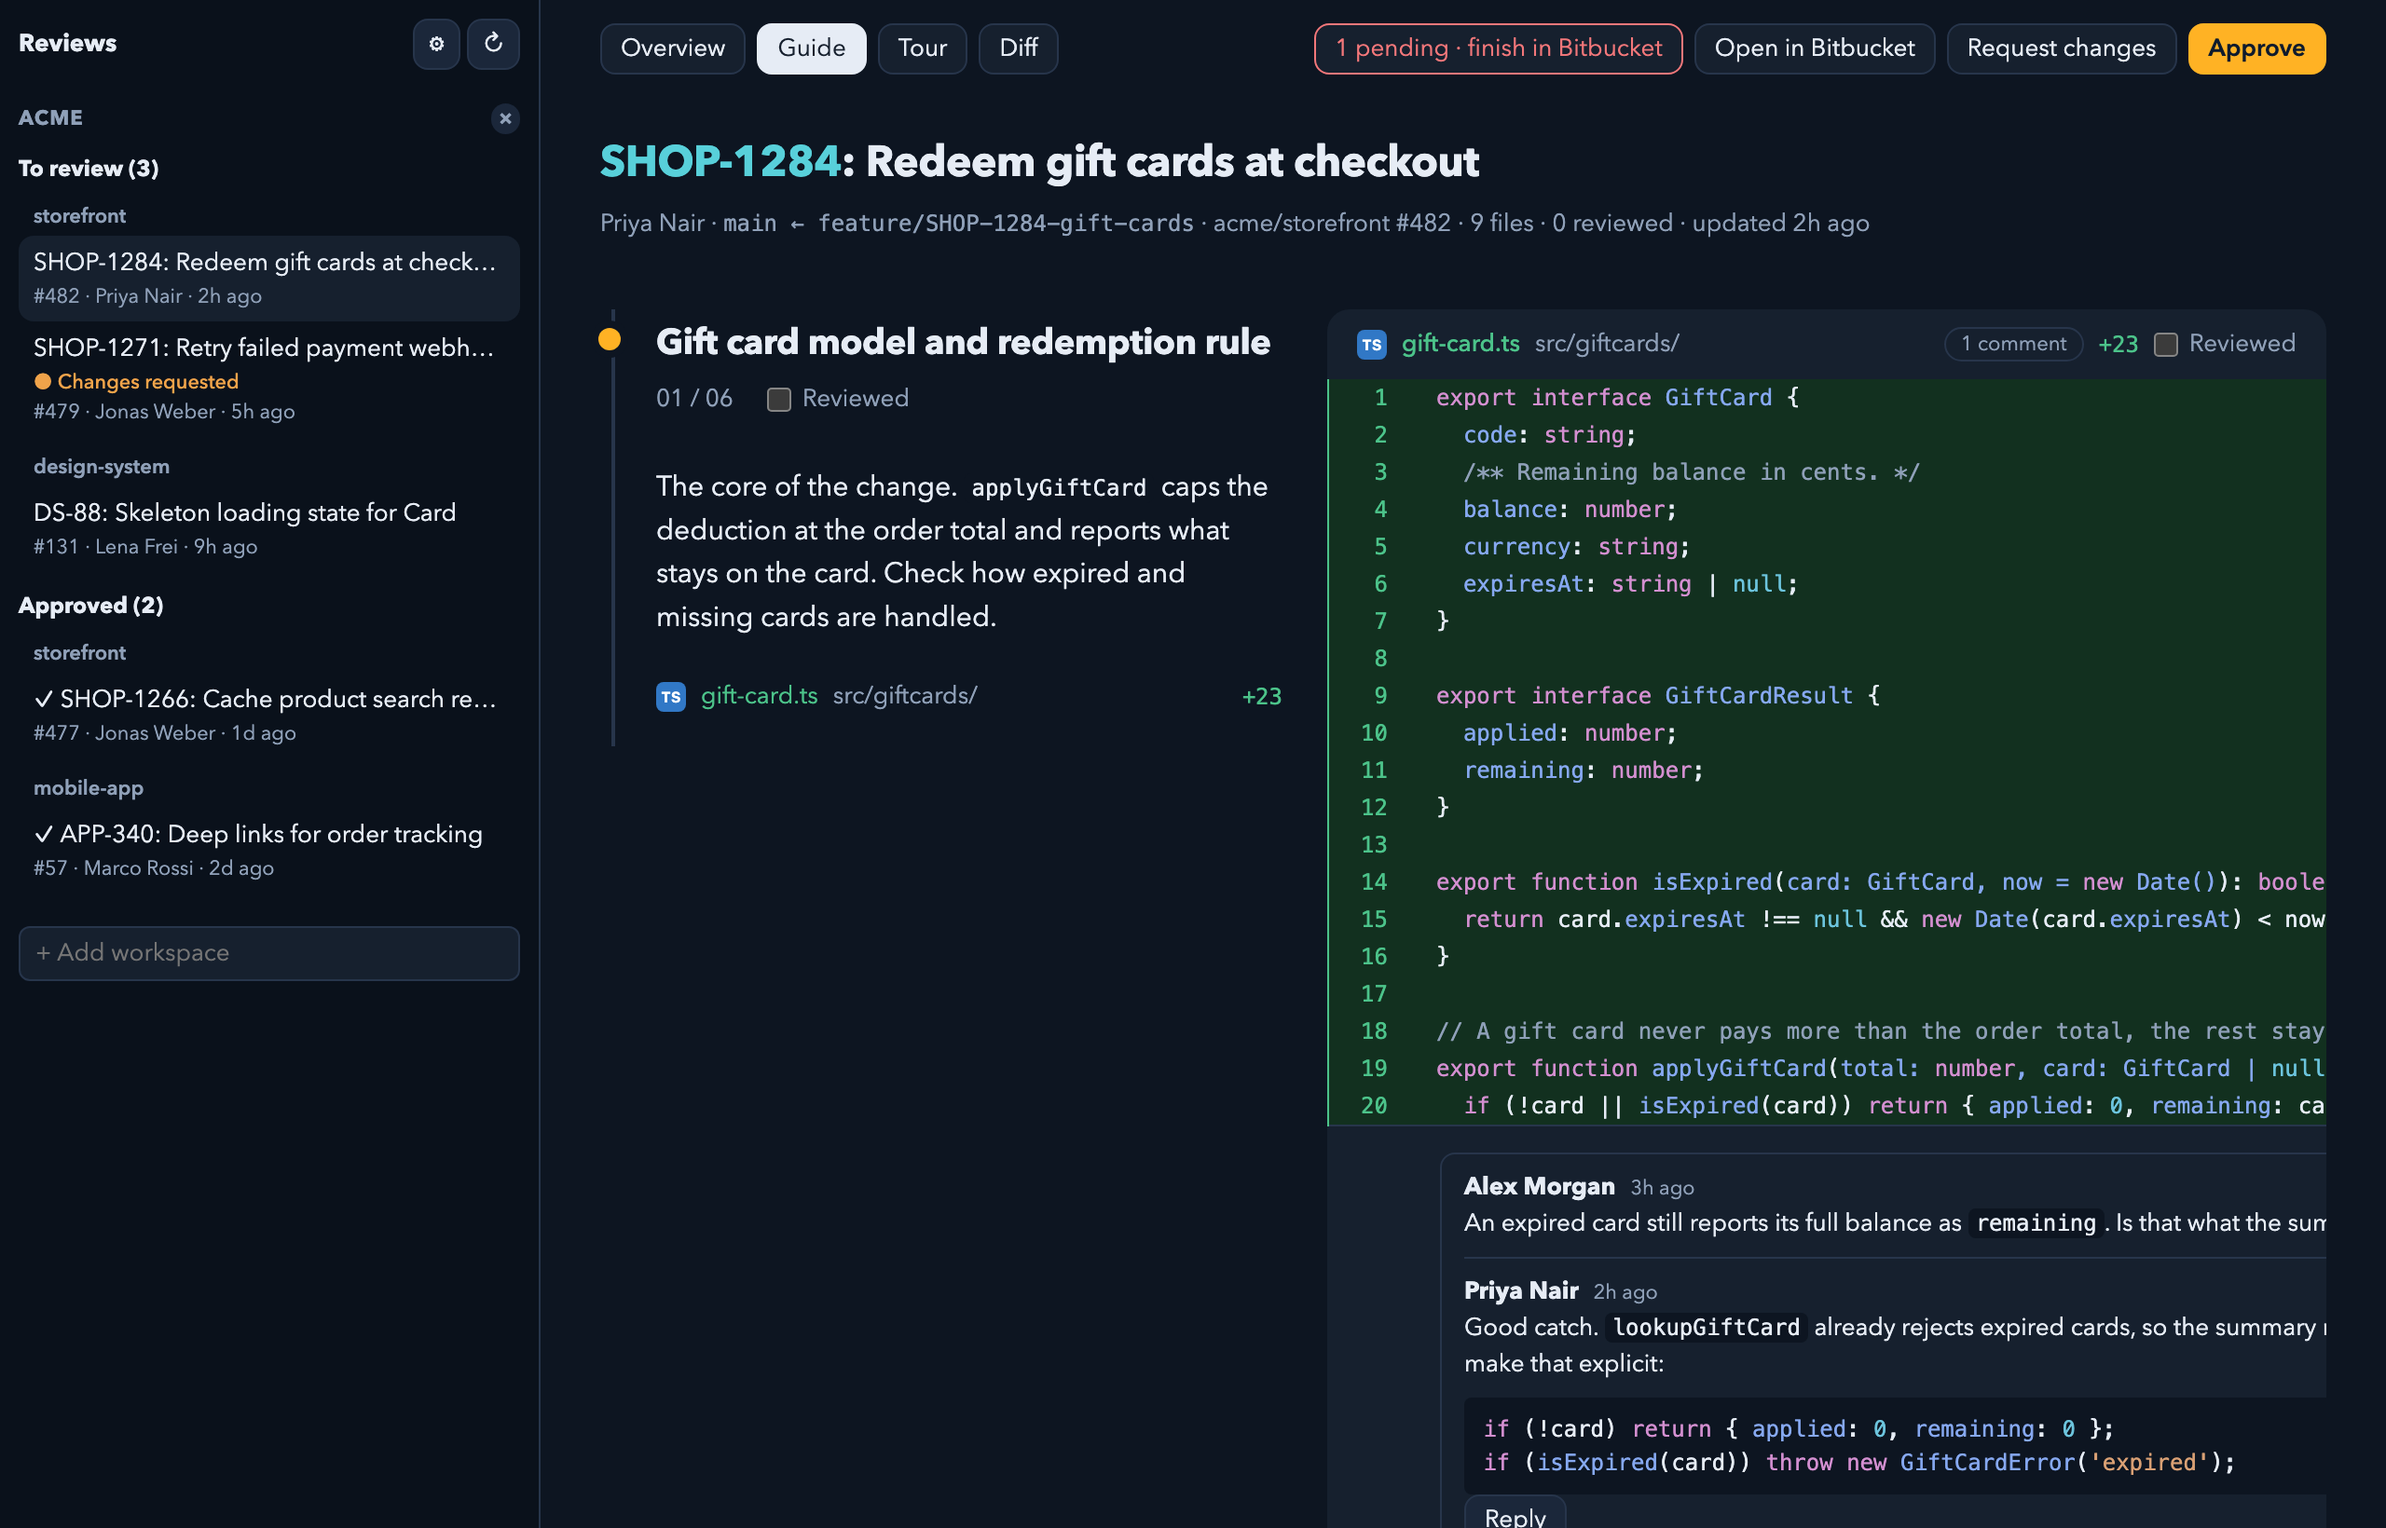
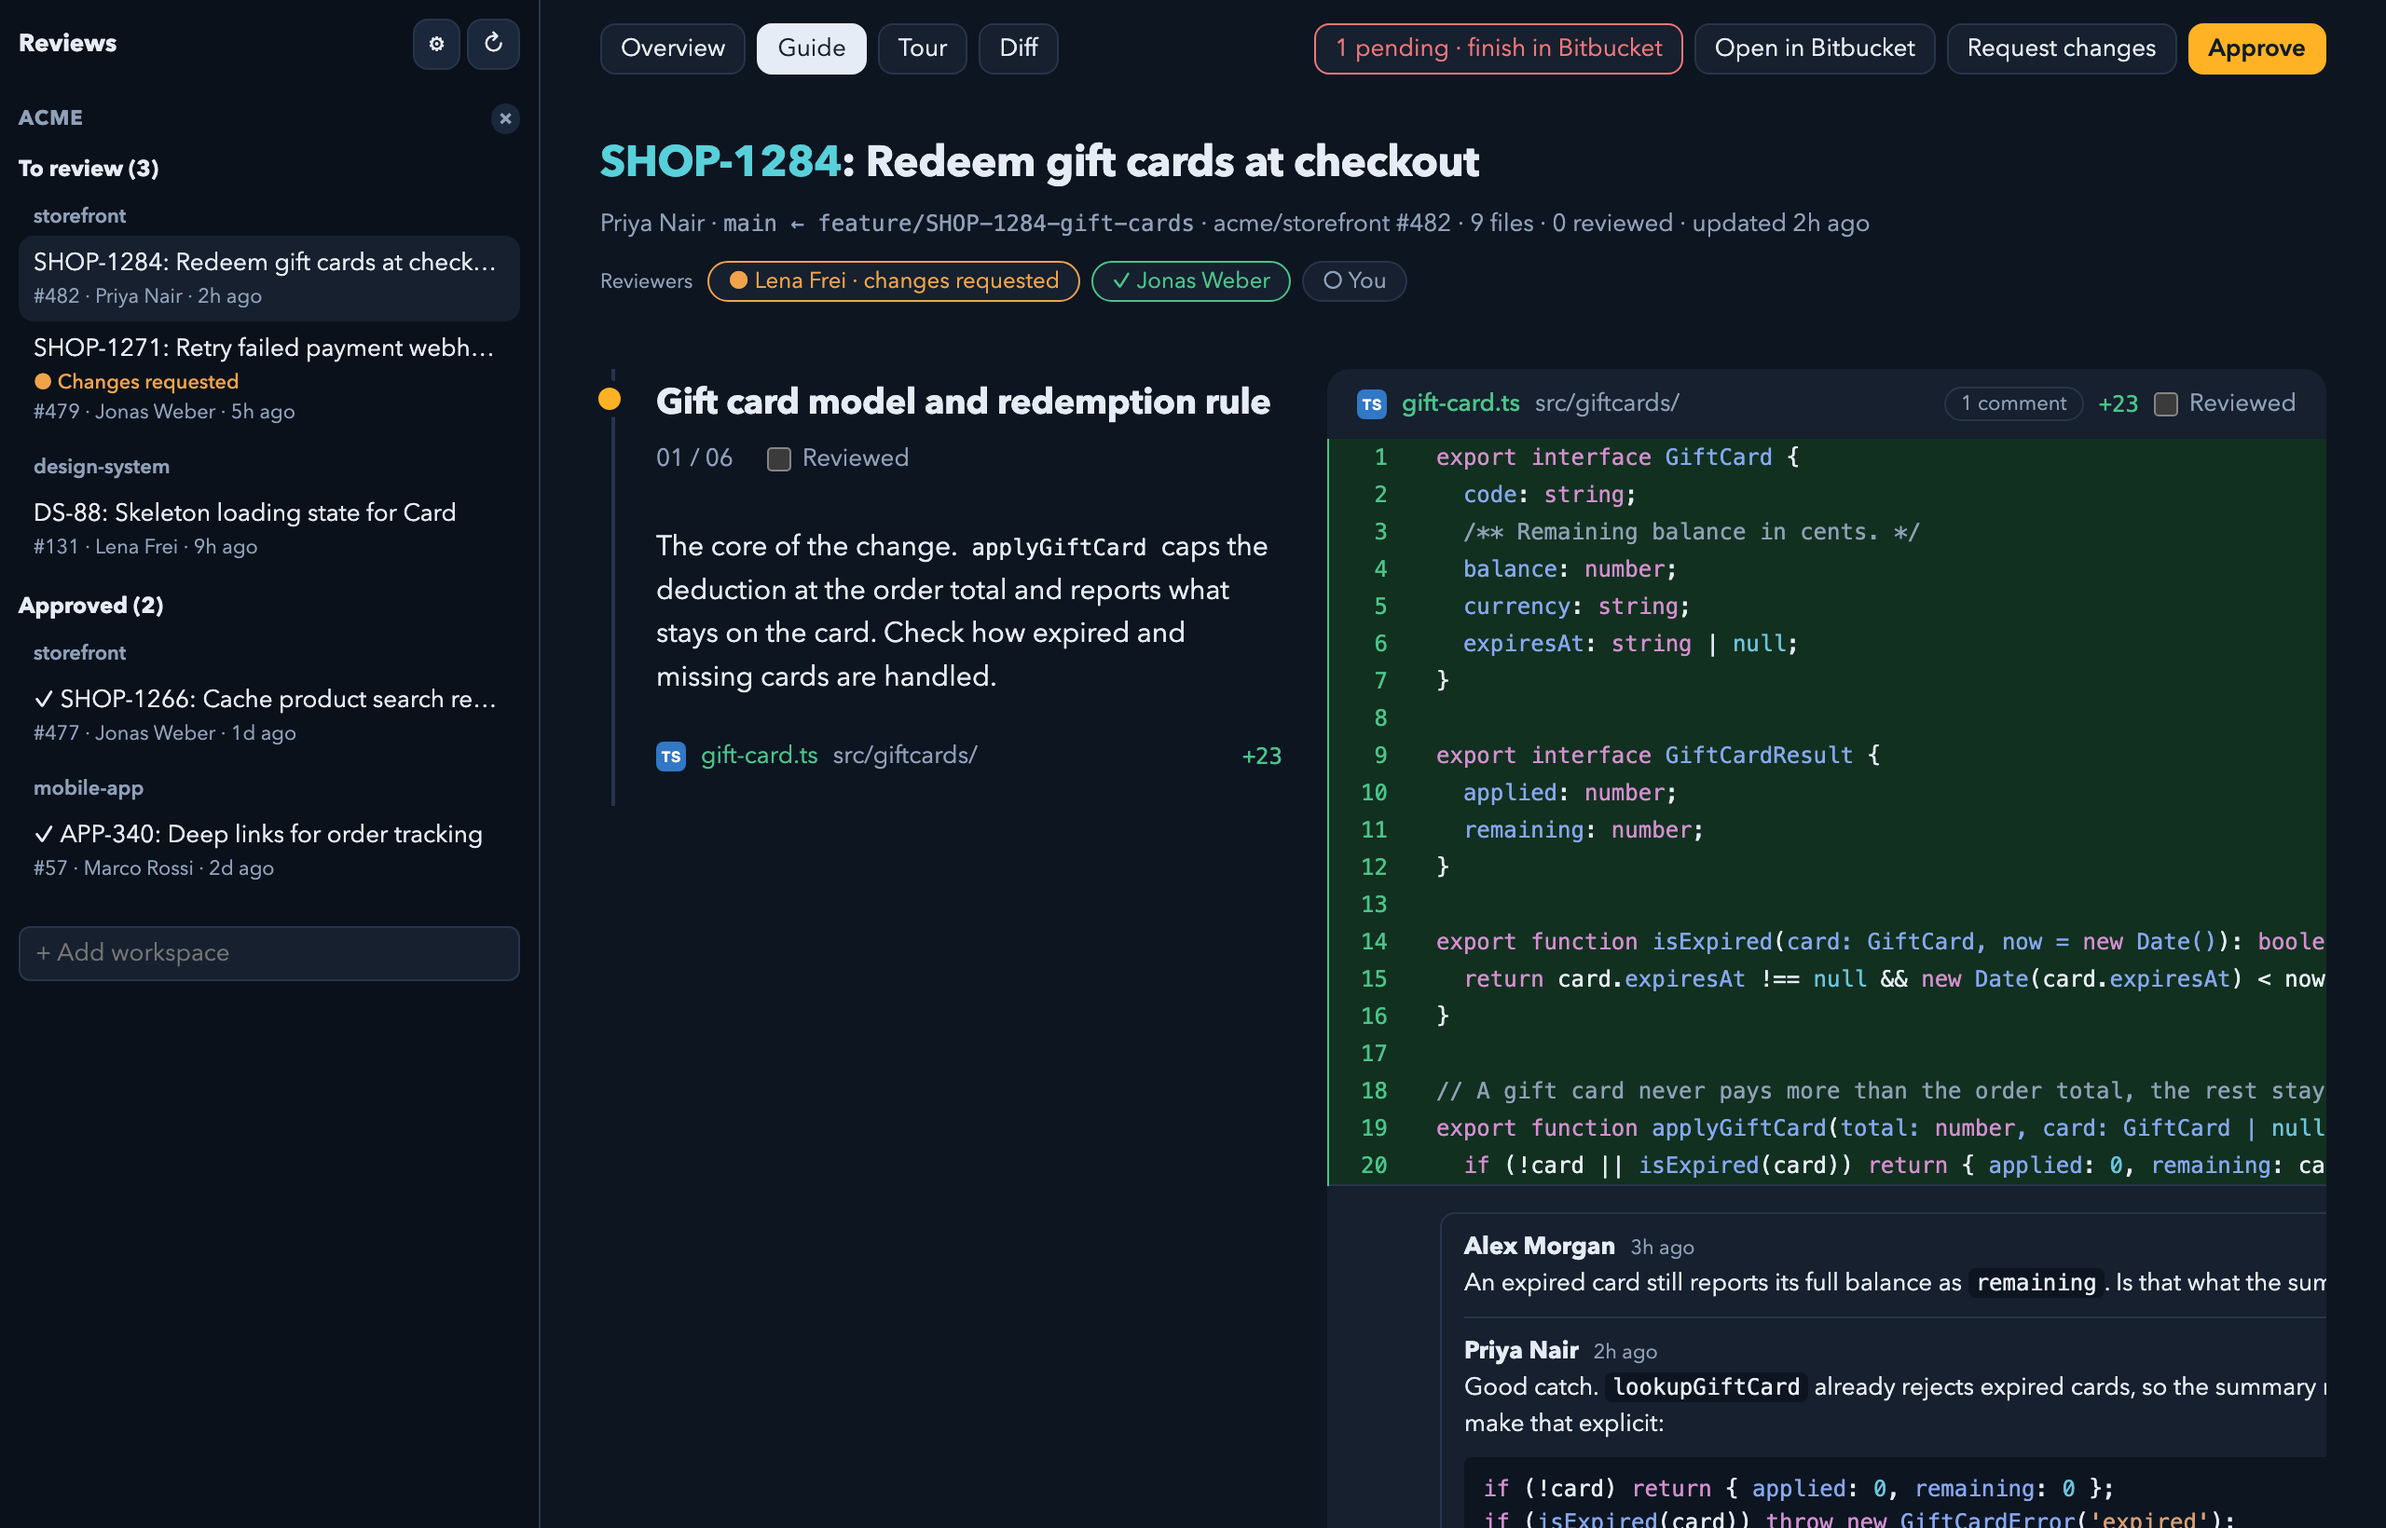
Show reviewers and their approval state

diff --git a/ui/app.js b/ui/app.js
@@ -405,6 +405,21 @@ function threadEl(root, comments, post, lang) {
   return h('div', { className: 'thread' + (root.resolution ? ' resolved' : '') }, all.map(item), slot);
 }
 
+// Who reviews this PR and where each stands: reviewers, plus anyone else who approved or asked for changes.
+function reviewersEl(pr) {
+  const order = { changes_requested: 0, approved: 1 };
+  const people = (pr.participants ?? [])
+    .filter((p) => (p.role === 'REVIEWER' || p.state) && p.user?.uuid !== pr.author?.uuid)
+    .sort((a, b) => (order[a.state] ?? 2) - (order[b.state] ?? 2));
+  if (!people.length) return null;
+  const chip = (p) => {
+    const [mark, label, cls] = p.state === 'approved' ? ['✓', 'approved', ' plus'] : p.state === 'changes_requested' ? ['●', 'changes requested', ' pending'] : ['○', 'has not reviewed yet', ''];
+    const name = p.user?.uuid === myUuid() ? 'You' : (p.user?.display_name ?? '?');
+    return h('span', { className: 'tag' + cls, title: `${name}: ${label}`, textContent: `${mark} ${name}${p.state === 'changes_requested' ? ' · changes requested' : ''}` });
+  };
+  return h('p', { className: 'reviewers' }, h('small', { textContent: 'Reviewers' }), people.map(chip));
+}
+
 // Small centred line under a guide or tour: which agent and model wrote it, and what that request used.
 // The numbers are from when it was written. Showing it again from the cache costs nothing.
 function aiFooter(meta) {
@@ -760,6 +775,7 @@ function draw(repo, id, data, guide) {
     ),
     h('h1', {}, title),
     h('p', { className: 'meta' }, h('span', { textContent: `${pr.author?.display_name ?? '?'} · ` }), h('code', { textContent: `${pr.destination.branch.name} ← ${pr.source.branch.name}` }), h('span', { textContent: ` · ${repo} #${id} · ${files.length} files · ${reviewed.size} reviewed · updated ${ago(pr.updated_on)}` })),
+    reviewersEl(pr),
     views[tab](),
   );
   main.scrollTop = 0;

diff --git a/ui/style.css b/ui/style.css
@@ -248,3 +248,9 @@ dialog.settings select { padding: 6px 8px; border: 1px solid var(--line); border
 .text table { border-collapse: collapse; white-space: normal; }
 .text th, .text td { border: 1px solid var(--line); padding: 4px 10px; text-align: left; vertical-align: top; }
 .text th { background: var(--page); font-weight: 600; }
+
+.meta:has(+ .reviewers) { margin-bottom: 10px; }
+.reviewers { display: flex; flex-wrap: wrap; gap: 6px; align-items: center; margin: 0 0 36px; }
+.reviewers small { margin-right: 2px; }
+.reviewers .tag { font-size: 12px; padding: 1px 10px; background: var(--bg); }
+.reviewers .tag.plus { color: var(--green); border-color: currentColor; }

diff --git a/TODO.md b/TODO.md
@@ -1,5 +1,4 @@
 # TODO
 
 - WYSIWYG editor for comments
-- Show other reviewers and their approval state
 - Add dark mode switch to settings (light, dark, system)
